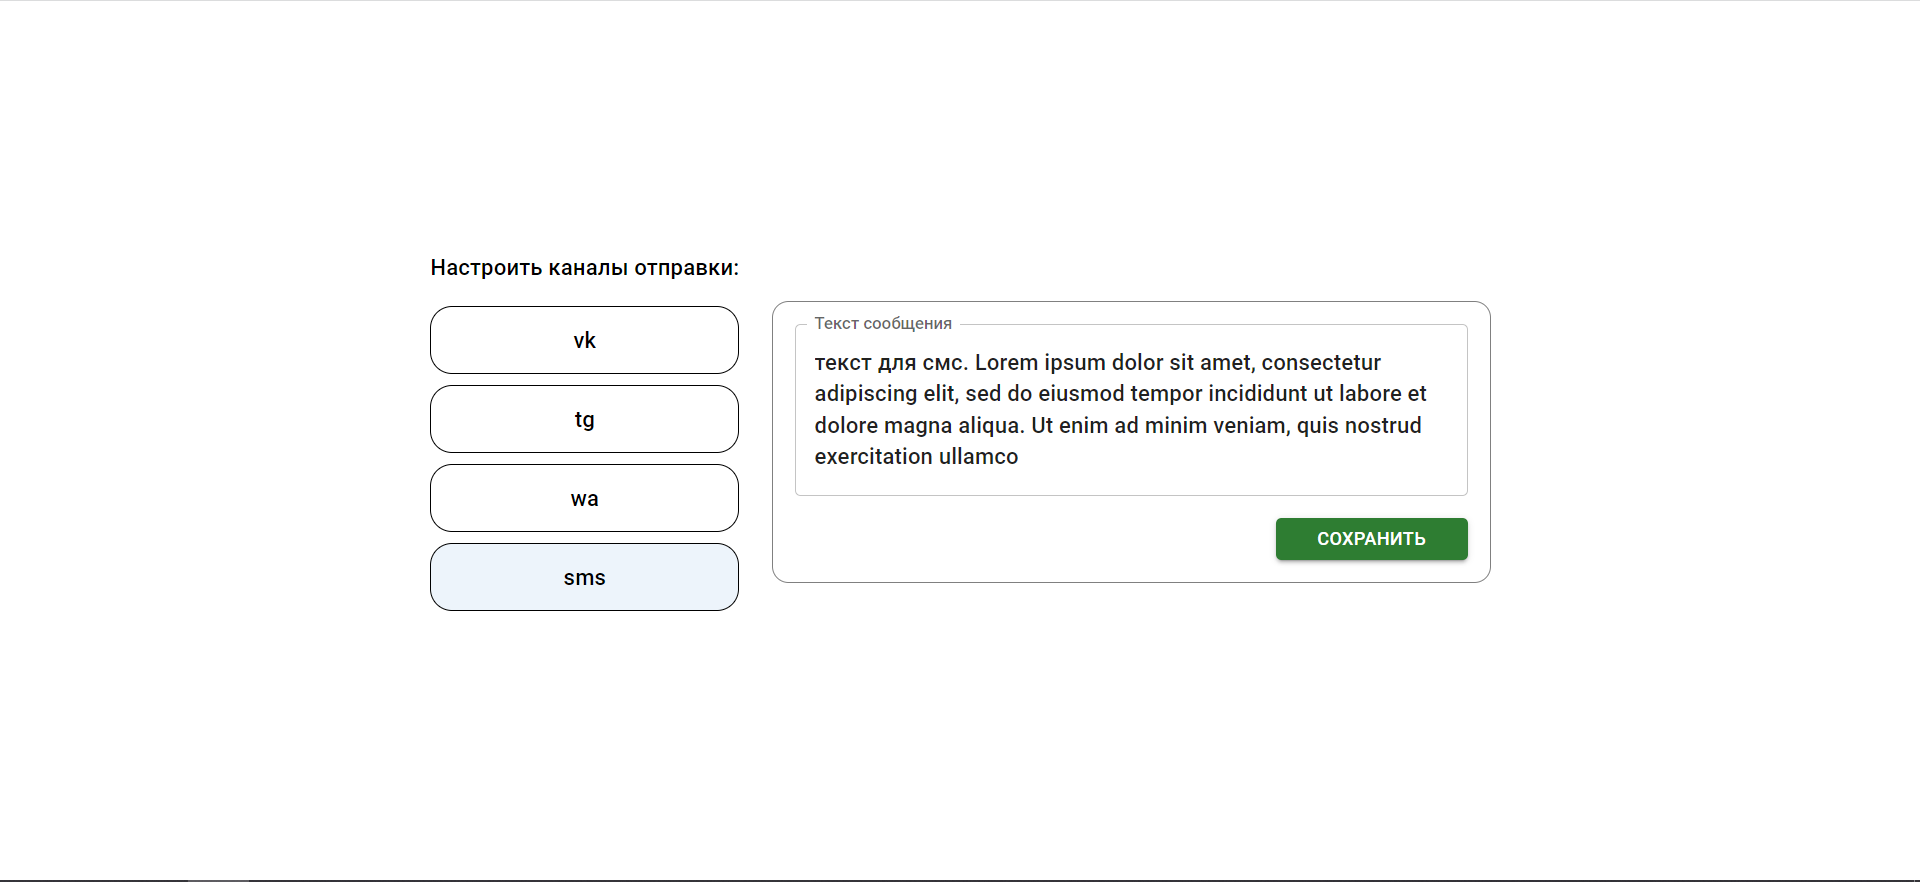
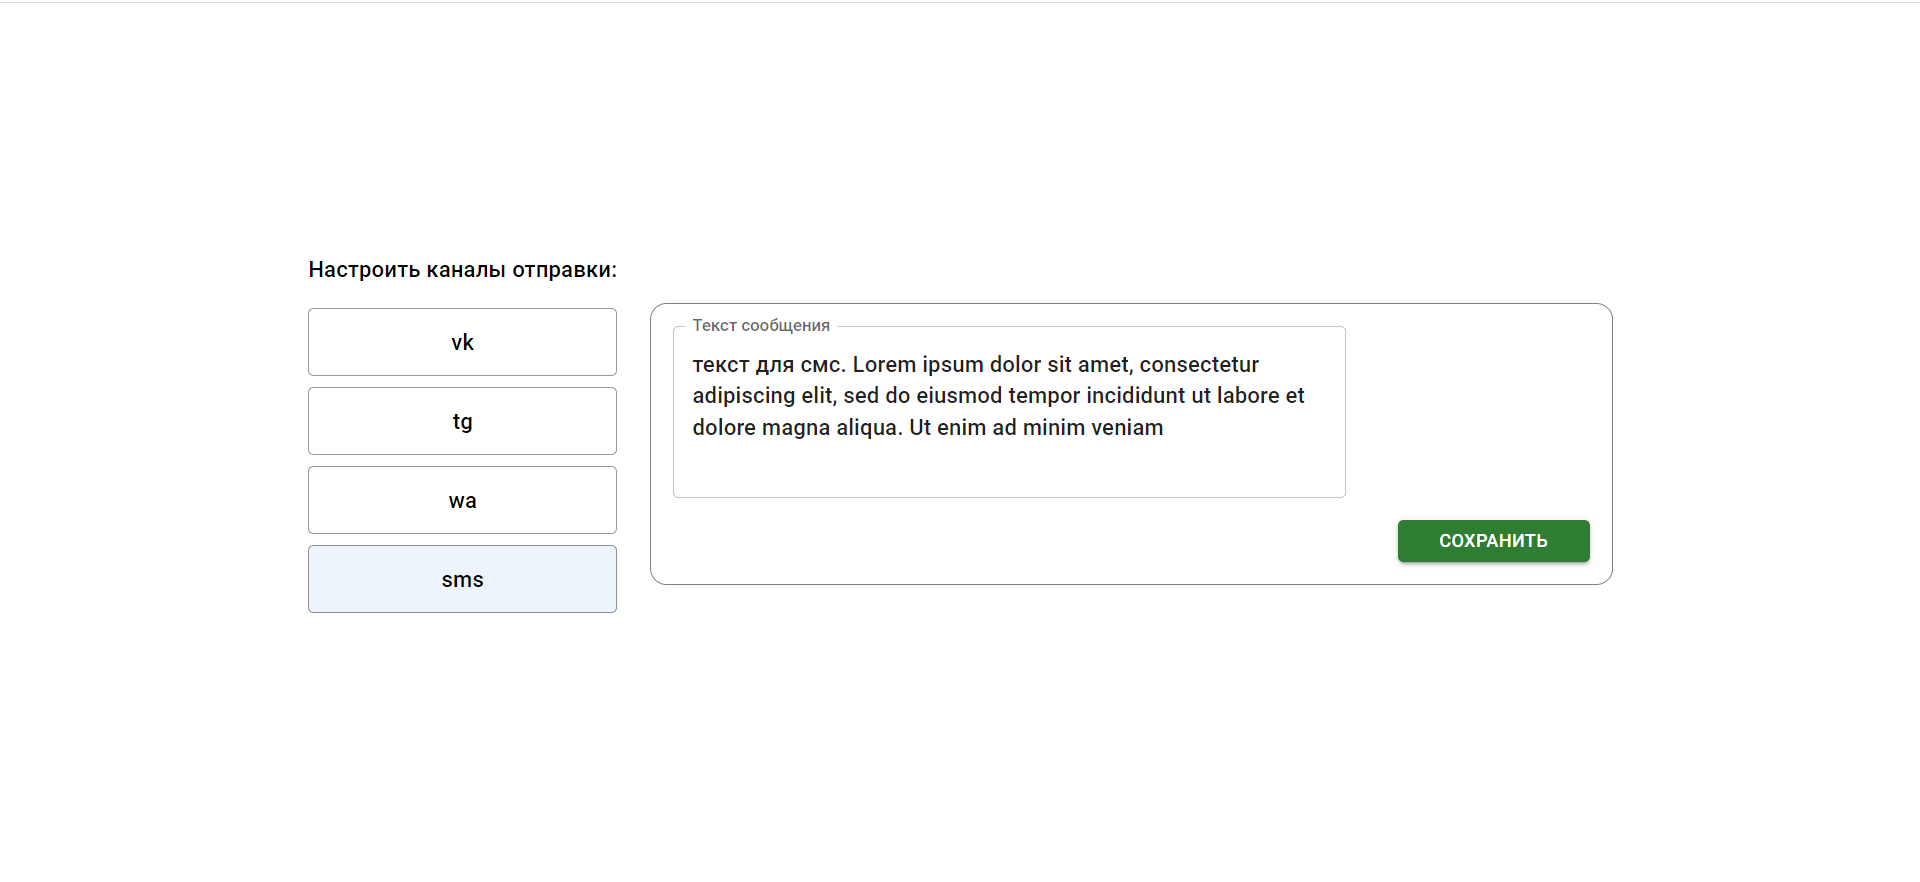
fixes, readme fix

diff --git a/client/src/pages/CampaignPage.jsx b/client/src/pages/CampaignPage.jsx
@@ -55,7 +55,11 @@ const CampaignPage = () => {
               <List>
                 {campaign.channels.map((el) => (
                   <ListItemButton
-                    sx={{ borderRadius: 4, border: 1, my: 1 }}
+                    sx={{
+                      borderRadius: 1,
+                      border: "1px solid rgba(1,1,1,0.4)",
+                      my: 1,
+                    }}
                     key={el}
                     selected={openChannel.selectedChannel === el}
                     onClick={() =>

diff --git a/client/src/components/BtnCreator.jsx b/client/src/components/BtnCreator.jsx
@@ -62,8 +62,10 @@ const BtnCreator = ({
             }
           }
           if (activeChannel == "tg") {
-            setButtons([...buttons, buttonText]);
-            setButtonText("");
+            if (buttonText.length) {
+              setButtons([...buttons, buttonText]);
+              setButtonText("");
+            }
           }
         }
         if (selected == "inline") {

diff --git a/client/src/components/MessageCreator.jsx b/client/src/components/MessageCreator.jsx
@@ -90,6 +90,7 @@ const MessageCreator = ({
     return (
       <Box
         sx={{
+          width: 700,
           border: "1px solid rgba(1,1,1,0.5)",
           borderRadius: 3,
           p: 2,

diff --git a/README.md b/README.md
@@ -33,18 +33,20 @@
 - Создание кампаний и сохранение в БД.
 - Создание сообщений в каналах кампании и сохранение в БД.
 - Удаление сообщений, кампаний с связанными сообщениями из БД.
-- Обработка ошибок, связанных с ограничениями каналов по ТЗ, и других.
+- Обработка ошибок, связанных с ограничениями каналов по ТЗ, проверки на пустые и существующие данные и тд.
 
 ---
 
-ТЗ выполнено, но само приложение сыровато, а именно:
+ТЗ выполнено, но само приложение сыровато(мало времени), а именно:
 
 - не реализовано редактирование
+- на странице с настройкой сообщения нельзе без сохранения переключиться на другой канал (не хранится на клиенте)(появляется предупреждение)
 - оптимизация производительности и кода
+- дизайн
 
 ---
 
-### Скриншоты
+### Скриншоты:
 
 ![Alt text](images/img1.png)
 
